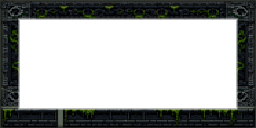
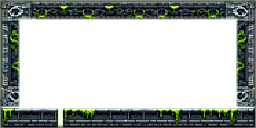
Match atlas brightness, card images under NineSlice frame
- Brighten sewers_wide.png by 1.6x to match square atlas
- Make sewers.png center transparent (frame=18px) so card images
  show through the NineSlice border
- Fix card depth ordering: image(1) < frame(2) < label(3) < hit(4)
- Version bump 1.10.26 → 1.10.27

diff --git a/FrontEnds/dungeon-fisher/src/scenes/FloorScene.js b/FrontEnds/dungeon-fisher/src/scenes/FloorScene.js
@@ -243,7 +243,7 @@ export default class FloorScene extends Phaser.Scene {
             const midY = cy + cardH / 2;
 
             // Panel frame
-            themedPanel(this, cx, cy, cardW, cardH, zone);
+            themedPanel(this, cx, cy, cardW, cardH, zone, { depth: 2 });
 
             // Inset matching the NineSlice corner size for this card
             const inset = Math.min(16, Math.floor(Math.min(cardW, cardH) / 12));
@@ -253,12 +253,12 @@ export default class FloorScene extends Phaser.Scene {
             const labelSpace = 14;
             const img = this.add.image(midX, cy + inset + (contentH - labelSpace) / 2, card.key);
             const imgScale = Math.min((cardW - inset * 2) / img.width, (contentH - labelSpace) / img.height);
-            img.setScale(imgScale);
+            img.setScale(imgScale).setDepth(1);
 
             // Label — inside the bottom content area, with stroke for readability
             const label = this.add.text(midX, cy + cardH - inset - 2, card.label,
                 makeStyle(TEXT_STYLES.BUTTON, { fontSize: '10px', color: card.color, stroke: '#000000', strokeThickness: 2 })
-            ).setOrigin(0.5);
+            ).setOrigin(0.5).setDepth(3);
             // Per-card shimmer tween
             const sh = card.shimmer;
             this.tweens.addCounter({
@@ -277,7 +277,7 @@ export default class FloorScene extends Phaser.Scene {
 
             // Hit zone
             const hit = this.add.rectangle(midX, midY, cardW, cardH, 0xffffff, 0)
-                .setInteractive({ useHandCursor: true });
+                .setDepth(4).setInteractive({ useHandCursor: true });
 
             hit.on('pointerover', () => {
                 label.setTint(0xffffff);

diff --git a/FrontEnds/dungeon-fisher/src/version.js b/FrontEnds/dungeon-fisher/src/version.js
@@ -2,7 +2,7 @@
 //   MAJOR — large game changes, system overhauls, breaking save changes
 //   MINOR — new features, content additions (fish, scenes, mechanics)
 //   PATCH — bug fixes, UI tweaks, balance tuning
-export const VERSION = '1.10.26';
+export const VERSION = '1.10.27';
 
 // Save format version — bump when save data structure changes.
 // This is separate from the game version because UI/balance changes
